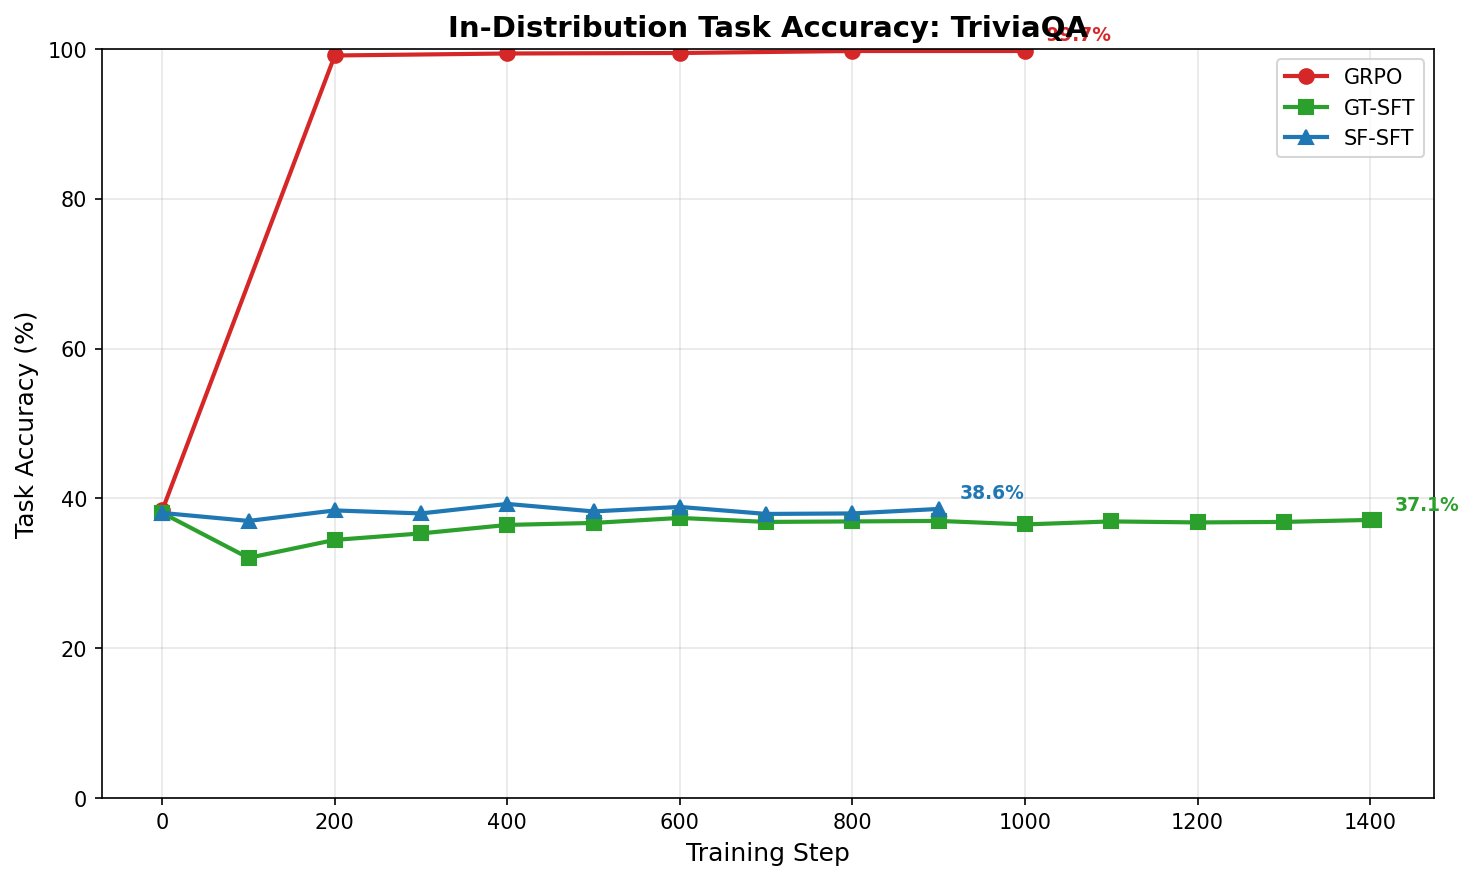
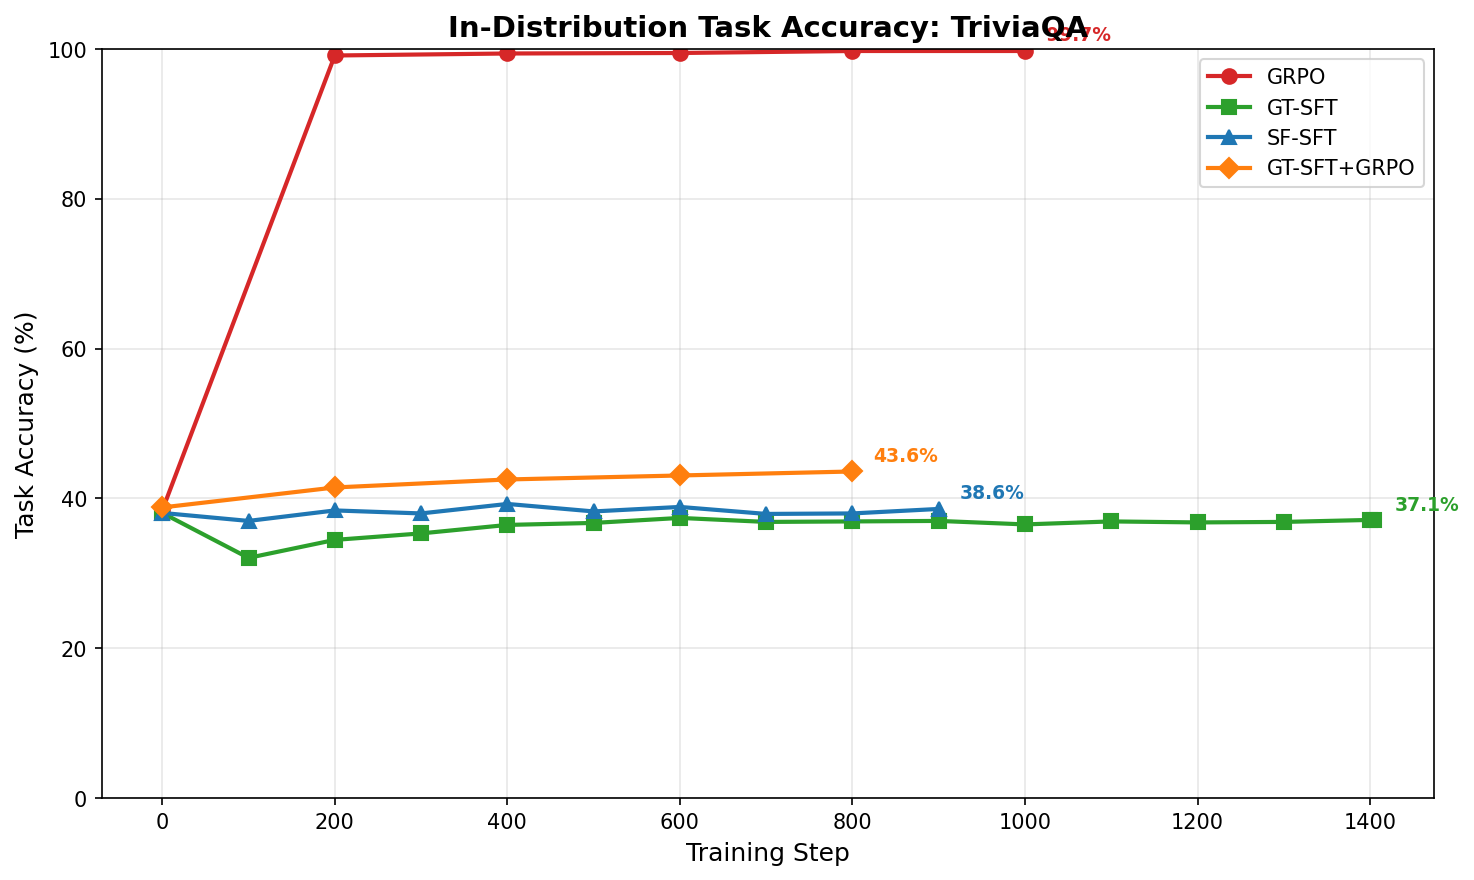
Add GT-SFT+GRPO TriviaQA task accuracy (43.6%), update plots
All 3 datasets now have 4 methods in task accuracy comparison plots.
GT-SFT+GRPO TriviaQA: 43.6% at step 800 (+5pp from base).

Changed region(s): [[0.8114, 0.0614, 0.9674, 0.2148], [0.0936, 0.5216, 0.5929, 0.583], [0.5929, 0.4909, 0.6242, 0.5216]]

diff --git a/STATUS.md b/STATUS.md
@@ -116,7 +116,7 @@ All checkpoint paths relative to `~/scratch/forgetting-llms/`.
 | SF-SFT TriviaQA | 2/13 | **Done** | PARTIAL |
 | GT-SFT+GRPO GSM8K | — | **Done** | Eval submitted |
 | GT-SFT+GRPO MATH | — | **Done** | Eval submitted |
-| GT-SFT+GRPO TriviaQA | — | — | Eval submitted |
+| GT-SFT+GRPO TriviaQA | — | **Done** | Eval submitted |
 | SF-SFT+GRPO GSM8K | — | — | Eval submitted |
 | SF-SFT+GRPO MATH | — | — | Eval submitted |
 | SF-SFT+GRPO TriviaQA | — | — | Eval submitted |
@@ -150,6 +150,7 @@ All SFT variants show positive OOD delta (no forgetting). GRPO shows mild forget
 | GT-SFT | MATH | 11.0% | 28.9% | 300 | +18pp, plateaus |
 | SF-SFT | MATH | 11.0% | 10.8% | 588 | flat (43% teacher) |
 | GRPO | TriviaQA | 38.4% | **99.7%** | 1000 | +61pp, saturates |
+| GT-SFT+GRPO | TriviaQA | 38.4% | 43.6% | 800 | +5pp |
 | SF-SFT | TriviaQA | 38.1% | 39.3% | 400 | +1pp |
 | GT-SFT | TriviaQA | 38.1% | 37.4% | 600 | flat |
 
@@ -219,7 +220,7 @@ Using SFT step 500 (~1 epoch) as warmstart, then GRPO for 15 epochs. Tests wheth
 |-----------|-------|-------|----------------|----------|
 | GT-SFT+GRPO GSM8K | 1,199 | 5 | **83.2%** (step 1000) | Pending |
 | GT-SFT+GRPO MATH | 892 | 4 | **61.6%** (step 800) | Pending |
-| GT-SFT+GRPO TriviaQA | 2,253 | 11 | Pending | Pending |
+| GT-SFT+GRPO TriviaQA | 2,253 | 11 | **43.6%** (step 800) | Pending |
 | SF-SFT+GRPO GSM8K | 1,253 | 6 | Pending | Pending |
 | SF-SFT+GRPO MATH | 987 | 4 | Pending | Pending |
 | SF-SFT+GRPO TriviaQA | 2,201 | 11 | Pending | Pending |
